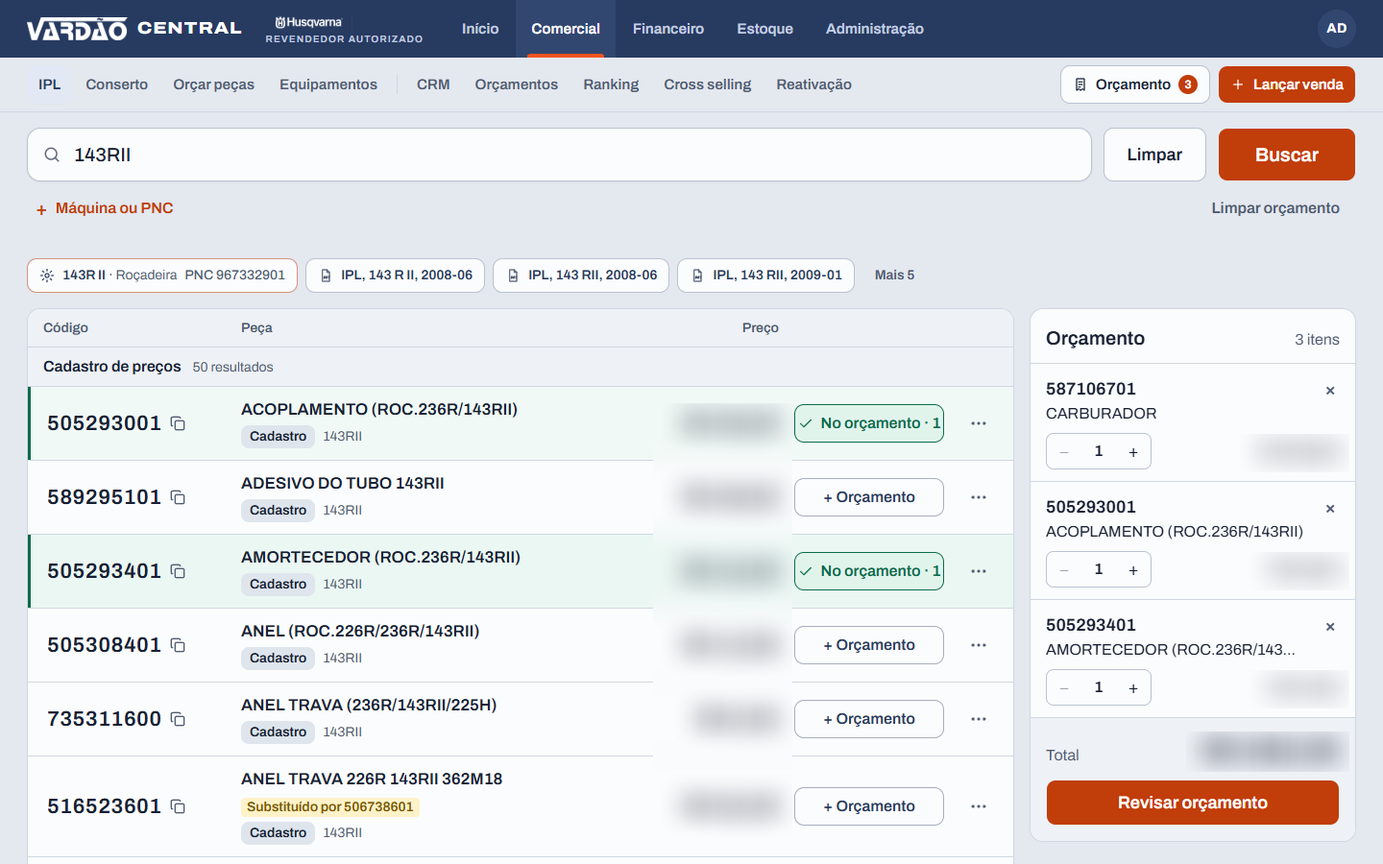
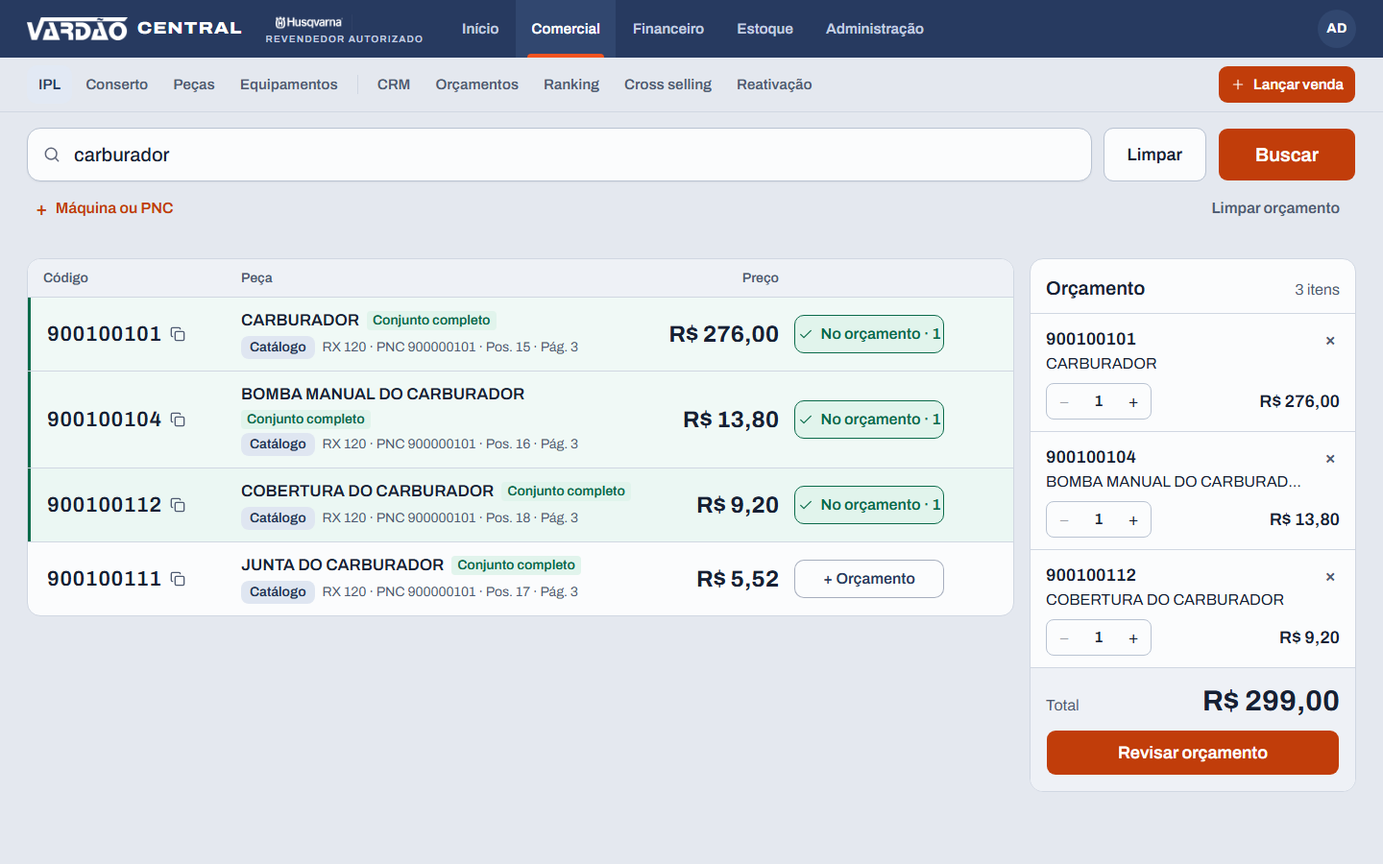
Estudo de caso do Vardão Central: prints com dados fictícios, menos detalhes internos e testes executados
- Os três prints foram recapturados numa loja simulada com dados 100% fictícios (marca, modelo, códigos, cliente, preços e resposta do portal da fabricante inventados). Rótulo com o nome do ERP da loja borrado
- Generalizados detalhes comerciais e operacionais: política de códigos para o cliente, arredondamento de parcelas, tabelas e regras antigas do ERP, rotina de exclusão de orçamentos, localização do servidor e latência, perfis e detalhes de autenticação
- Resultados de testes comprovados: 623 Vitest, 1.488 de 1.491 no back-end (3 falhas de integração com RabbitMQ por falta de broker), 70 E2E; sem afirmar CI ativo
- Textos alternativos e legendas atualizados

diff --git a/meu-portfolio/public/estudo-de-caso-vardao-central/index.html b/meu-portfolio/public/estudo-de-caso-vardao-central/index.html
@@ -18,12 +18,12 @@
   <meta property="og:image" content="https://matheusfranciscols.github.io/assets/vardao-central/balcao.png">
   <meta property="og:image:width" content="1440">
   <meta property="og:image:height" content="900">
-  <meta property="og:image:alt" content="Balcão do Vardão Central: busca pelo modelo 143RII com três peças no orçamento ao lado.">
+  <meta property="og:image:alt" content="Balcão do Vardão Central: busca por carburador com três peças no orçamento ao lado, numa loja simulada com dados fictícios.">
   <meta name="twitter:card" content="summary_large_image">
   <meta name="twitter:title" content="Vardão Central: estudo de caso | Matheus Francisco">
   <meta name="twitter:description" content="O sistema que a loja onde trabalho usa todo dia: balcão, CRM, financeiro e estoque, e as regras do ERP antigo reconstruídas e testadas.">
   <meta name="twitter:image" content="https://matheusfranciscols.github.io/assets/vardao-central/balcao.png">
-  <meta name="twitter:image:alt" content="Balcão do Vardão Central: busca pelo modelo 143RII com três peças no orçamento ao lado.">
+  <meta name="twitter:image:alt" content="Balcão do Vardão Central: busca por carburador com três peças no orçamento ao lado, numa loja simulada com dados fictícios.">
   <link rel="stylesheet" href="/estudo-de-caso.css">
   <script>
     (function () {
@@ -54,7 +54,7 @@
       <a class="btn ghost" href="/#contato">Falar comigo</a>
     </header>
 
-    <figure class="shot"><img src="/assets/vardao-central/balcao.png" alt="Balcão do Vardão Central: busca pelo modelo 143RII com três peças no orçamento ao lado." width="1440" height="900"></figure>
+    <figure class="shot"><img src="/assets/vardao-central/balcao.png" alt="Balcão do Vardão Central: busca por carburador com três peças no orçamento ao lado, numa loja simulada com dados fictícios." width="1440" height="900"></figure>
 
     <section>
       <h2>O problema</h2>
@@ -81,7 +81,7 @@
       <h3>Financeiro</h3>
       <p>Lançamento de vendas, compras e despesas, DRE, fluxo de caixa, capital de giro, curva ABC e fechamento de caixa.</p>
       <h3>Estoque</h3>
-      <p>Itens a pedir, faltas, prateleiras e encomendas de peças para o cliente, com o sinal que ele já pagou.</p>
+      <p>Itens a pedir, faltas, prateleiras e encomendas de peças para clientes.</p>
       <h3>Início por perfil</h3>
       <p>Cada pessoa abre o sistema no Início do seu papel, com o que importa para o dia dela, e o botão principal muda conforme o papel: "Lançar venda" ou "Novo orçamento".</p>
     </section>
@@ -90,9 +90,9 @@
       <h2>Arquitetura e engenharia</h2>
       <div class="arch"><img src="/assets/vardao-central/arquitetura.svg" alt="Diagrama: o navegador usa o front-end React na Vercel, que chama a API Node.js no Render; a API grava no PostgreSQL e no Storage do Supabase e coloca a leitura de PDFs numa fila RabbitMQ; integrações externas tracejadas: portal público da fabricante, Gemini e arquivos do ERP antigo." loading="lazy" width="1000" height="492"></div>
       <ul class="plain">
-        <li><strong>Várias lojas, um banco.</strong> Todo registro pertence a uma loja (um campo de loja em todo o esquema do banco), e a loja vem da sessão de quem entrou, não do navegador.</li>
-        <li><strong>Login e perfis.</strong> Sessão por cookie com JWT, renovada enquanto a pessoa trabalha. Há três perfis (Administrador, Mecânico, para balcão e vendas, e Financeiro), e o servidor confere o perfil em cada rota. Trocar o perfil ou desativar alguém derruba a sessão.</li>
-        <li><strong>Proteção básica.</strong> Limite de requisições, cabeçalhos de segurança (helmet) e validação das entradas na API.</li>
+        <li><strong>Várias lojas, um banco.</strong> Todo registro pertence a uma loja, e a loja vem da sessão de quem entrou, não do navegador.</li>
+        <li><strong>Acesso controlado.</strong> Login com sessão assinada e acesso por perfil, sempre conferido no servidor e não só na tela.</li>
+        <li><strong>Proteção básica.</strong> Limite de requisições, cabeçalhos de segurança e validação das entradas na API.</li>
         <li><strong>Trabalho em segundo plano.</strong> A leitura de catálogos em PDF passa por uma fila RabbitMQ, com nova tentativa. A API não depende da fila para atender o balcão.</li>
         <li><strong>Banco.</strong> PostgreSQL com Prisma: 49 modelos e 91 migrations versionadas.</li>
       </ul>
@@ -103,9 +103,9 @@
       <p>A loja não podia perder nenhum número na troca. A regra era simples: os mesmos resultados do ERP antigo, ou melhores.</p>
       <ul class="plain">
         <li><strong>Regras do ERP, testadas.</strong> Li o código do ERP tela por tela e reproduzi as regras no Vardão Central: DRE, fluxo de caixa, capital de giro, ranking de clientes e outras. Cada regra tem testes automatizados.</li>
-        <li><strong>O que estava escondido.</strong> A revisão mostrou que o ERP ainda usava uma tabela antiga de vendas, com regras próprias até uma data de corte. Sem essa revisão, esse "legado" teria ficado de fora do DRE e dos relatórios.</li>
+        <li><strong>O que estava escondido.</strong> A revisão mostrou que o ERP carregava regras e histórico de versões antigas que não estavam documentados. Sem essa revisão, esse legado teria ficado de fora dos relatórios.</li>
         <li><strong>Importação segura.</strong> O importador dos dados do ERP, pronto e testado com dados fictícios, roda primeiro em modo de ensaio, exige os totais esperados para gravar, confere os totais depois de gravar e tem como desfazer.</li>
-        <li><strong>Melhor que o original.</strong> Nas parcelas das vendas, o ERP somava R$ 99,99 para R$ 100 em três vezes. O Vardão Central conta em centavos inteiros e a sobra vai para a primeira parcela.</li>
+        <li><strong>Melhor que o original.</strong> Os valores passaram a ser contados em centavos inteiros, e a divisão em parcelas sempre fecha no total, sem diferença de arredondamento.</li>
       </ul>
     </section>
 
@@ -113,7 +113,7 @@
       <h2>Regras que o produto não quebra</h2>
       <div class="rules">
         <div class="rule"><h3>Nunca chutar o código</h3><p>Código digitado devolve só o código exato e a substituição oficial da fabricante. A IA só escolhe dentro de uma lista fechada de peças da máquina.</p></div>
-        <div class="rule"><h3>O cliente nunca recebe o código</h3><p>PDF, WhatsApp e impressão saem sem o código da peça, para o cliente não cotar em outra revenda com o nosso número.</p></div>
+        <div class="rule"><h3>Nada interno vai ao cliente</h3><p>Orçamentos em PDF e mensagens de WhatsApp saem só com o que o cliente precisa ver. Os dados internos do balcão ficam de fora, e um teste garante isso.</p></div>
         <div class="rule"><h3>Mudança de dado é explícita</h3><p>Importar preço, estoque ou vendas mostra um relatório antes de gravar e guarda como desfazer.</p></div>
         <div class="rule"><h3>Número é número</h3><p>Parcelas em centavos inteiros e datas no fuso da loja, travadas por teste.</p></div>
       </div>
@@ -122,22 +122,22 @@
     <section>
       <h2>Telas</h2>
       <div class="gallery">
-        <figure><div class="shot"><img src="/assets/vardao-central/substituido.png" alt="Código substituído pela fabricante, com o código novo em destaque." loading="lazy" width="1440" height="900"></div><figcaption><strong>Código antigo, peça nova.</strong> A troca oficial aparece em destaque, com o código novo pronto para orçar.</figcaption></figure>
-        <figure><div class="shot"><img src="/assets/vardao-central/orcamento.png" alt="Revisão do orçamento com prazo, pagamento, desconto e envio por WhatsApp ou PDF." loading="lazy" width="1440" height="900"></div><figcaption><strong>Orçamento</strong> com prazo, pagamento e desconto, enviado por WhatsApp ou PDF.</figcaption></figure>
+        <figure><div class="shot"><img src="/assets/vardao-central/substituido.png" alt="Código substituído pela fabricante, com o código novo em destaque. Dados fictícios." loading="lazy" width="1440" height="900"></div><figcaption><strong>Código antigo, peça nova.</strong> A troca oficial aparece em destaque, com o código novo pronto para orçar.</figcaption></figure>
+        <figure><div class="shot"><img src="/assets/vardao-central/orcamento.png" alt="Tela de orçamento de peças com dados do cliente, itens, prazo e observações, numa loja simulada com dados fictícios." loading="lazy" width="1440" height="900"></div><figcaption><strong>Orçamento</strong> com prazo, pagamento e desconto, enviado por WhatsApp ou PDF.</figcaption></figure>
       </div>
-      <p style="margin-top:14px;font-size:0.95rem;color:var(--ink-2)">Prints de uma loja simulada, sem dados de clientes. Os preços foram ocultados.</p>
+      <p style="margin-top:14px;font-size:0.95rem;color:var(--ink-2)">Prints de uma loja simulada, com dados inteiramente fictícios: marca, modelo, códigos, cliente e preços foram inventados para a demonstração. A resposta do portal da fabricante, que informa a troca de código, também foi simulada.</p>
     </section>
 
     <section>
       <h2>Decisões e o que aprendi</h2>
       <h3>O teste verde que mentia</h3>
-      <p>Uma rotina que apaga orçamentos com mais de 1 ano tinha teste e passava. Em produção, nunca rodava: a linha que a ligava estava dentro do bloco de nova tentativa da fila. Descobri olhando o banco. Hoje há um teste só para essa ligação, provado desfazendo a correção e vendo o teste reprovar.</p>
+      <p>Uma rotina de manutenção tinha teste e passava, mas em produção nunca rodava: o ponto onde ela era ligada estava no lugar errado da inicialização. Descobri olhando os dados. Hoje há um teste só para essa ligação, provado desfazendo a correção e vendo o teste reprovar.</p>
       <h3>"Hoje" terminava ontem</h3>
       <p>O servidor roda em UTC e a loja em UTC-3: o filtro "até hoje" cortava antes da meia-noite da loja e o dono não via os orçamentos do próprio dia. Toda conta de dia agora usa o fuso da loja, travada por teste.</p>
       <h3>Recusar é melhor que errar</h3>
       <p>O leitor de catálogos em PDF prefere recusar um arquivo duvidoso, dizendo o motivo, a gravar um código errado que estragaria a busca inteira.</p>
-      <h3>O servidor ao lado do banco</h3>
-      <p>O banco fica em São Paulo e o servidor da API ficava nos Estados Unidos: cada consulta ia e voltava, cerca de 210 ms por vez. Preparei as telas do dia a dia para serem atendidas por uma função em São Paulo, ao lado do banco, e deixei no servidor principal só o que é pesado, como PDFs e importações. Dá para voltar atrás com uma variável.</p>
+      <h3>Servidor perto do banco</h3>
+      <p>O servidor da API ficava longe do banco de dados, e cada consulta pagava a viagem de ida e volta. Preparei as telas do dia a dia para serem atendidas por uma camada mais próxima do banco, deixando no servidor principal só o trabalho pesado. A mudança pode ser desligada por uma variável.</p>
       <h3>Ler o sistema antigo, não confiar na memória</h3>
       <p>Na reconstrução do financeiro, eu não confiei nas regras que eu achava que o ERP tinha. Fui ao código dele, e foi isso que achou o que estava escondido.</p>
     </section>
@@ -145,22 +145,21 @@
     <section>
       <h2>Qualidade em números</h2>
       <div class="numbers">
-        <div class="num"><b>222</b><span>arquivos de teste no back-end</span></div>
-        <div class="num"><b>87</b><span>arquivos de teste Vitest no front-end</span></div>
-        <div class="num"><b>23</b><span>arquivos de testes E2E com Playwright</span></div>
-        <div class="num"><b>623</b><span>testes Vitest no front-end, todos passando</span></div>
+        <div class="num"><b>1.488</b><span>de 1.491 testes do back-end aprovados (222 arquivos)</span></div>
+        <div class="num"><b>623</b><span>testes Vitest do front-end aprovados (87 arquivos)</span></div>
+        <div class="num"><b>70</b><span>testes E2E com Playwright aprovados (23 arquivos)</span></div>
         <div class="num"><b>91</b><span>migrations do banco, versionadas</span></div>
         <div class="num"><b>49</b><span>modelos de dados no Prisma (sem contar enums)</span></div>
       </div>
-      <p style="margin-top:12px;font-size:0.95rem;color:var(--ink-2)">Arquivos contados na árvore do repositório (commit de 04/11/2026); testes Vitest executados em 10/11/2026. Os testes do back-end e os E2E não foram executados para esta contagem.</p>
+      <p style="margin-top:12px;font-size:0.95rem;color:var(--ink-2)">Testes executados em 10/11/2026 num ambiente isolado (banco PostgreSQL local descartável e dados fictícios), sobre o commit de 04/11/2026. No back-end, os 3 testes que não passaram são de integração com o RabbitMQ e falharam porque não havia servidor de filas no ambiente. No E2E, 68 dos 70 testes passaram na primeira execução; os outros 2 usavam uma data fixa de outubro e passaram depois de trocá-la pelo mês corrente, sem remover nem enfraquecer verificações.</p>
     </section>
 
     <section>
       <h2>Limites e o que falta</h2>
       <ul class="plain">
         <li><strong>Dados reais do ERP.</strong> O importador está pronto e testado com dados fictícios. Rodar com os dados reais é decisão do dono da loja.</li>
-        <li><strong>Testes.</strong> Os testes do front-end rodam em segundos e passaram na última execução. Os do back-end e os E2E precisam de banco e de navegador e estão no pipeline de CI do projeto.</li>
-        <li><strong>Prints.</strong> Os preços foram ocultados, porque a lista de preços é dado da loja.</li>
+        <li><strong>Testes e CI.</strong> Os resultados acima vêm de execuções manuais em ambiente isolado. O pipeline de CI do projeto está desativado no momento, então não há execução automática recente.</li>
+        <li><strong>Prints.</strong> Feitos numa loja simulada com dados fictícios, sem nenhum dado real da loja.</li>
       </ul>
     </section>
 

diff --git a/meu-portfolio/public/estudo-de-caso-vardao-central/en/index.html b/meu-portfolio/public/estudo-de-caso-vardao-central/en/index.html
@@ -18,12 +18,12 @@
   <meta property="og:image" content="https://matheusfranciscols.github.io/assets/vardao-central/balcao.png">
   <meta property="og:image:width" content="1440">
   <meta property="og:image:height" content="900">
-  <meta property="og:image:alt" content="Vardão Central counter: search for model 143RII with three parts in the quote alongside.">
+  <meta property="og:image:alt" content="Vardão Central counter: a search for carburetor parts with three parts in the quote alongside, in a simulated store with fictional data.">
   <meta name="twitter:card" content="summary_large_image">
   <meta name="twitter:title" content="Vardão Central: case study | Matheus Francisco">
   <meta name="twitter:description" content="The system the store where I work uses every day: counter, CRM, finance and inventory, and the old ERP’s rules rebuilt and tested.">
   <meta name="twitter:image" content="https://matheusfranciscols.github.io/assets/vardao-central/balcao.png">
-  <meta name="twitter:image:alt" content="Vardão Central counter: search for model 143RII with three parts in the quote alongside.">
+  <meta name="twitter:image:alt" content="Vardão Central counter: a search for carburetor parts with three parts in the quote alongside, in a simulated store with fictional data.">
   <link rel="stylesheet" href="/estudo-de-caso.css">
   <script>
     (function () {
@@ -54,7 +54,7 @@
       <a class="btn ghost" href="/en/#contato">Contact me</a>
     </header>
 
-    <figure class="shot"><img src="/assets/vardao-central/balcao.png" alt="Vardão Central counter: search for model 143RII with three parts in the quote alongside." width="1440" height="900"></figure>
+    <figure class="shot"><img src="/assets/vardao-central/balcao.png" alt="Vardão Central counter: a search for carburetor parts with three parts in the quote alongside, in a simulated store with fictional data." width="1440" height="900"></figure>
 
     <section>
       <h2>The problem</h2>
@@ -81,7 +81,7 @@
       <h3>Finance</h3>
       <p>Sales, purchases and expenses, income statement, cash flow, working capital, ABC analysis and closing the till.</p>
       <h3>Inventory</h3>
-      <p>Items to order, shortages, shelves and special orders for customers, with the deposit they already paid.</p>
+      <p>Items to order, shortages, shelves and special orders for customers.</p>
       <h3>Home by role</h3>
       <p>Each person opens the system on the home screen for their role, with what matters for their day, and the main button changes with the role: "Lançar venda" (record a sale) or "Novo orçamento" (new quote).</p>
     </section>
@@ -90,9 +90,9 @@
       <h2>Architecture and engineering</h2>
       <div class="arch"><img src="/assets/vardao-central/arquitetura.svg" alt="Diagram: the browser uses the React front end on Vercel, which calls the Node.js API on Render; the API writes to PostgreSQL and Supabase Storage and puts PDF reading on a RabbitMQ queue; dashed external integrations: the manufacturer’s public portal, Gemini and files from the old ERP." loading="lazy" width="1000" height="492"></div>
       <ul class="plain">
-        <li><strong>Many stores, one database.</strong> Every record belongs to a store (a store field across the database schema), and the store comes from the signed-in session, not from the browser.</li>
-        <li><strong>Login and roles.</strong> Cookie session with a JWT, renewed while the person is working. There are three roles (Administrator, Mechanic, for counter and sales, and Finance), and the server checks the role on every route. Changing a role or deactivating someone ends the session.</li>
-        <li><strong>Basic protection.</strong> Rate limiting, security headers (helmet) and input validation on the API.</li>
+        <li><strong>Many stores, one database.</strong> Every record belongs to a store, and the store comes from the signed-in session, not from the browser.</li>
+        <li><strong>Controlled access.</strong> Login with a signed session and role-based access, always checked on the server and not only on screen.</li>
+        <li><strong>Basic protection.</strong> Rate limiting, security headers and input validation on the API.</li>
         <li><strong>Background work.</strong> Reading PDF catalogs goes through a RabbitMQ queue, with retries. The API does not depend on the queue to serve the counter.</li>
         <li><strong>Database.</strong> PostgreSQL with Prisma: 49 models and 91 versioned migrations.</li>
       </ul>
@@ -103,9 +103,9 @@
       <p>The store could not lose a single number in the switch. The rule was simple: the same results as the old ERP, or better.</p>
       <ul class="plain">
         <li><strong>The ERP’s rules, tested.</strong> I read the ERP’s code screen by screen and reproduced its rules in Vardão Central: income statement, cash flow, working capital, customer ranking and more. Each rule has automated tests.</li>
-        <li><strong>What was hidden.</strong> The review showed the ERP still used an old sales table, with its own rules up to a cut-off date. Without that review, this legacy data would have been missing from the income statement and the reports.</li>
+        <li><strong>What was hidden.</strong> The review showed the ERP carried rules and history from older versions that were not documented. Without that review, this legacy would have been missing from the reports.</li>
         <li><strong>Safe import.</strong> The importer for the ERP data, ready and tested with fictional data, runs as a dry run first, requires the expected totals before writing, checks the totals after writing and can be undone.</li>
-        <li><strong>Better than the original.</strong> On sales installments, the ERP added up to R$ 99.99 for R$ 100 in three payments. Vardão Central counts in whole cents and the remainder goes to the first installment.</li>
+        <li><strong>Better than the original.</strong> Values are now counted in whole cents, and splitting into installments always adds up to the total, with no rounding difference.</li>
       </ul>
     </section>
 
@@ -113,7 +113,7 @@
       <h2>Rules the product never breaks</h2>
       <div class="rules">
         <div class="rule"><h3>Never guess a code</h3><p>A typed code returns only the exact code and the manufacturer’s official replacement. The AI only picks from a closed list of parts for the machine.</p></div>
-        <div class="rule"><h3>The customer never gets the code</h3><p>PDFs, WhatsApp messages and printouts leave without the part code, so the customer cannot price it at another dealer with our number.</p></div>
+        <div class="rule"><h3>Nothing internal reaches the customer</h3><p>PDF quotes and WhatsApp messages carry only what the customer needs to see. The counter’s internal data stays out, and a test guarantees it.</p></div>
         <div class="rule"><h3>Data changes are explicit</h3><p>Importing prices, inventory or sales shows a report before writing and keeps an undo.</p></div>
         <div class="rule"><h3>Numbers are numbers</h3><p>Installments in whole cents and dates in the store’s time zone, locked by tests.</p></div>
       </div>
@@ -122,22 +122,22 @@
     <section>
       <h2>Screens</h2>
       <div class="gallery">
-        <figure><div class="shot"><img src="/assets/vardao-central/substituido.png" alt="A code replaced by the manufacturer, with the new code highlighted." loading="lazy" width="1440" height="900"></div><figcaption><strong>Old code, new part.</strong> The official replacement is highlighted, ready to quote.</figcaption></figure>
-        <figure><div class="shot"><img src="/assets/vardao-central/orcamento.png" alt="Quote review with lead time, payment, discount and sending by WhatsApp or PDF." loading="lazy" width="1440" height="900"></div><figcaption><strong>Quote</strong> with lead time, payment and discount, sent by WhatsApp or PDF.</figcaption></figure>
+        <figure><div class="shot"><img src="/assets/vardao-central/substituido.png" alt="A code replaced by the manufacturer, with the new code highlighted. Fictional data." loading="lazy" width="1440" height="900"></div><figcaption><strong>Old code, new part.</strong> The official replacement is highlighted, ready to quote.</figcaption></figure>
+        <figure><div class="shot"><img src="/assets/vardao-central/orcamento.png" alt="Parts quote screen with customer details, items, lead time and remarks, in a simulated store with fictional data." loading="lazy" width="1440" height="900"></div><figcaption><strong>Quote</strong> with lead time, payment and discount, sent by WhatsApp or PDF.</figcaption></figure>
       </div>
-      <p style="margin-top:14px;font-size:0.95rem;color:var(--ink-2)">Screenshots from a simulated store, with no customer data. Prices were hidden.</p>
+      <p style="margin-top:14px;font-size:0.95rem;color:var(--ink-2)">Screenshots from a simulated store with entirely fictional data: brand, model, codes, customer and prices were invented for the demonstration. The manufacturer portal response that reports the code replacement was also simulated.</p>
     </section>
 
     <section>
       <h2>Decisions and what I learned</h2>
       <h3>The green test that lied</h3>
-      <p>A job that deletes quotes older than 1 year had a passing test. In production it never ran: the line that started it sat inside the queue’s retry block. I found it by looking at the database. Now there is a test just for that wiring, proven by undoing the fix and watching the test fail.</p>
+      <p>A maintenance job had a passing test, but in production it never ran: the place where it was wired in sat in the wrong part of the startup. I found it by looking at the data. Now there is a test just for that wiring, proven by undoing the fix and watching the test fail.</p>
       <h3>"Today" ended yesterday</h3>
       <p>The server runs in UTC and the store in UTC-3: the "until today" filter cut off before the store’s midnight and the owner could not see the day’s own quotes. Every day calculation now uses the store’s time zone, locked by a test.</p>
       <h3>Refusing beats being wrong</h3>
       <p>The PDF catalog reader prefers to refuse a doubtful file, saying why, rather than save a wrong code that would spoil the whole search.</p>
-      <h3>The server next to the database</h3>
-      <p>The database is in São Paulo and the API server was in the United States: every query went there and back, about 210 ms each time. I prepared the everyday screens to be served by a function in São Paulo, next to the database, and left only the heavy work, like PDFs and imports, on the main server. One variable switches it back.</p>
+      <h3>Server close to the database</h3>
+      <p>The API server was far from the database, and every query paid the round trip. I prepared the everyday screens to be served by a layer closer to the database, leaving only the heavy work on the main server. A variable switches it off.</p>
       <h3>Read the old system, don’t trust memory</h3>
       <p>When rebuilding finance I did not trust the rules I thought the ERP had. I went to its code, and that is what found what was hidden.</p>
     </section>
@@ -145,22 +145,21 @@
     <section>
       <h2>Quality in numbers</h2>
       <div class="numbers">
-        <div class="num"><b>222</b><span>back-end test files</span></div>
-        <div class="num"><b>87</b><span>front-end Vitest test files</span></div>
-        <div class="num"><b>23</b><span>Playwright end-to-end spec files</span></div>
-        <div class="num"><b>623</b><span>front-end Vitest tests, all passing</span></div>
+        <div class="num"><b>1,488</b><span>of 1,491 back-end tests passing (222 files)</span></div>
+        <div class="num"><b>623</b><span>front-end Vitest tests passing (87 files)</span></div>
+        <div class="num"><b>70</b><span>Playwright end-to-end tests passing (23 files)</span></div>
         <div class="num"><b>91</b><span>versioned database migrations</span></div>
         <div class="num"><b>49</b><span>Prisma data models (enums not counted)</span></div>
       </div>
-      <p style="margin-top:12px;font-size:0.95rem;color:var(--ink-2)">Files counted in the repository tree (commit of 2026-11-04); Vitest tests executed on 2026-11-10. Back-end and end-to-end tests were not executed for this count.</p>
+      <p style="margin-top:12px;font-size:0.95rem;color:var(--ink-2)">Tests run on 2026-11-10 in an isolated environment (disposable local PostgreSQL database and fictional data), on the 2026-11-04 commit. In the back-end, the 3 tests that did not pass are RabbitMQ integration tests and failed because there was no message broker in the environment. In E2E, 68 of 70 tests passed on the first run; the other 2 used a fixed October date and passed after replacing it with the current month, without removing or weakening any check.</p>
     </section>
 
     <section>
       <h2>Limits and what is missing</h2>
       <ul class="plain">
         <li><strong>Real ERP data.</strong> The importer is ready and tested with fictional data. Running it on the real data is the store owner’s decision.</li>
-        <li><strong>Tests.</strong> The front-end tests run in seconds and passed on the last run. The back-end and end-to-end tests need a database and a browser and are in the project’s CI pipeline.</li>
-        <li><strong>Screenshots.</strong> Prices were hidden, because the price list is store data.</li>
+        <li><strong>Tests and CI.</strong> The results above come from manual runs in an isolated environment. The project’s CI pipeline is currently disabled, so there is no recent automatic run.</li>
+        <li><strong>Screenshots.</strong> Taken in a simulated store with fictional data, with no real store data.</li>
       </ul>
     </section>
 

diff --git a/meu-portfolio/src/content.js b/meu-portfolio/src/content.js
@@ -121,7 +121,7 @@ export const content = {
             'Reproduzi no sistema as regras do ERP antigo, cada uma coberta por testes automatizados.',
             '222 arquivos de teste no back-end, 87 arquivos Vitest no front-end e 23 arquivos de especificação E2E com Playwright.',
           ],
-          imgAlt: 'Balcão do Vardão Central: busca por modelo com o orçamento ao lado, numa loja simulada, com os preços ocultados.',
+          imgAlt: 'Balcão do Vardão Central: busca de peça com o orçamento ao lado, numa loja simulada com dados fictícios.',
           study: '/estudo-de-caso-vardao-central/',
           liveNote: 'O acesso é com o login da loja. O código é privado; mostro a arquitetura numa conversa.',
         },
@@ -301,7 +301,7 @@ export const content = {
             'I reproduced the old ERP’s rules in the system, each one covered by automated tests.',
             '222 back-end test files, 87 front-end Vitest files and 23 Playwright end-to-end spec files.',
           ],
-          imgAlt: 'Vardão Central counter: search by model with the quote alongside, in a simulated store, with prices hidden.',
+          imgAlt: 'Vardão Central counter: part search with the quote alongside, in a simulated store with fictional data.',
           study: '/estudo-de-caso-vardao-central/en/',
           liveNote: 'Access requires a store login. The code is private; I walk through the architecture on a call.',
         },
